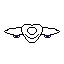
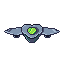
normal enemy colored

Changed region(s): [[0.0625, 0.375, 0.9375, 0.6875]]

diff --git a/src/space.cpp b/src/space.cpp
@@ -62,7 +62,7 @@ void space::update_enemy_ships() {
         _last_spawn + _spawn_time < wze::timer::current_time()) {
         switch (_difficulty) {
         case 1:
-            enemy_difficulty = ENEMY_DIFFICULTY_EASY;
+            enemy_difficulty = ENEMY_DIFFICULTY_NORMAL;
             count = wze::math::random(1, 2);
             _spawn_time = wze::math::random(60'000, 80'000);
             break;
